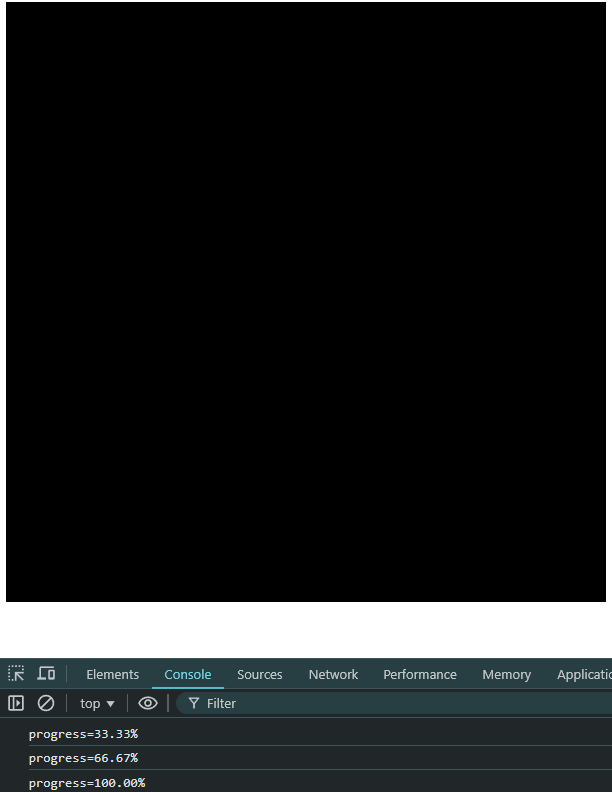
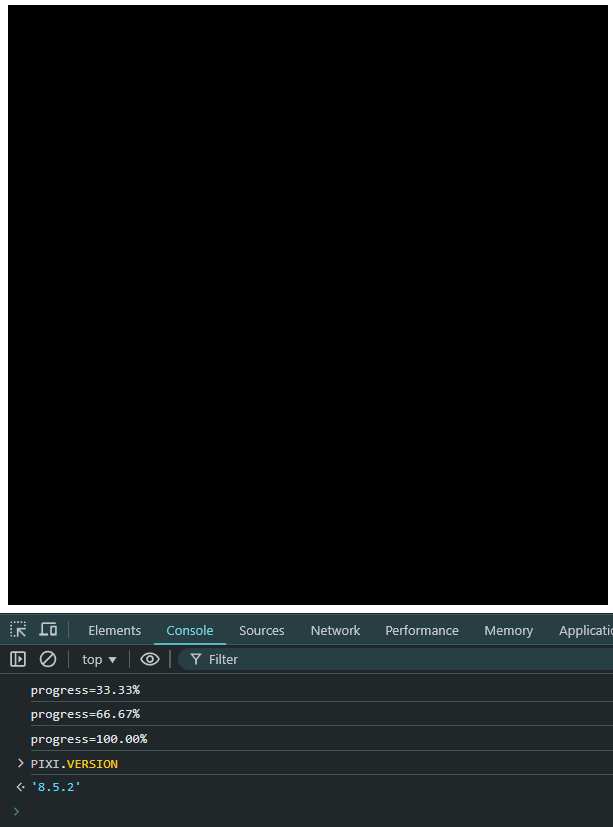
Updates circle blast images

Changed region(s): [[0.0, 0.0, 1.0, 1.0]]

diff --git a/tutorial/HW-circle-blast-1.md b/tutorial/HW-circle-blast-1.md
@@ -82,7 +82,7 @@ Take a look at what you have:
 
 ![Screenshot](_images/circle-blast-4.png)
 
-- If you don't want to type in the URLs for the 2 libraries, then google "CDN Pixi" and "CDN Howler" to find and copy/paste the URLs yourself. **For now, we still recommend that you, stick to Pixi Version 6. Pixi Version 7 is new last semester and may not match up perfectly with some of our materials.**
+- If you don't want to type in the URLs for the 2 libraries, then google "CDN Pixi" and "CDN Howler" to find and copy/paste the URLs yourself.
 
 ### Is everything imported?
 
@@ -176,7 +176,7 @@ function setup() {
 - We have set up all of our "script scope" variables that we will need for the completed game.
 - Note that we are starting the game - by calling `setup()` - AFTER we have pre-loaded all of our image assets.
 
-- **Load the game in a browser to verify that PIXI is loaded (you should see a 600x600 black screen). The messages in the console won't appear when using PIXI v7, but you can examine the value of PIXI.VERSION in the console if you wish:**
+- **Load the game in a browser to verify that PIXI is loaded (you should see a 600x600 black screen). The messages in the console won't appear when using PIXI v7+, but you can examine the value of PIXI.VERSION in the console if you wish:**
 
 ![Screenshot](_images/circle-blast-6.png)
 
